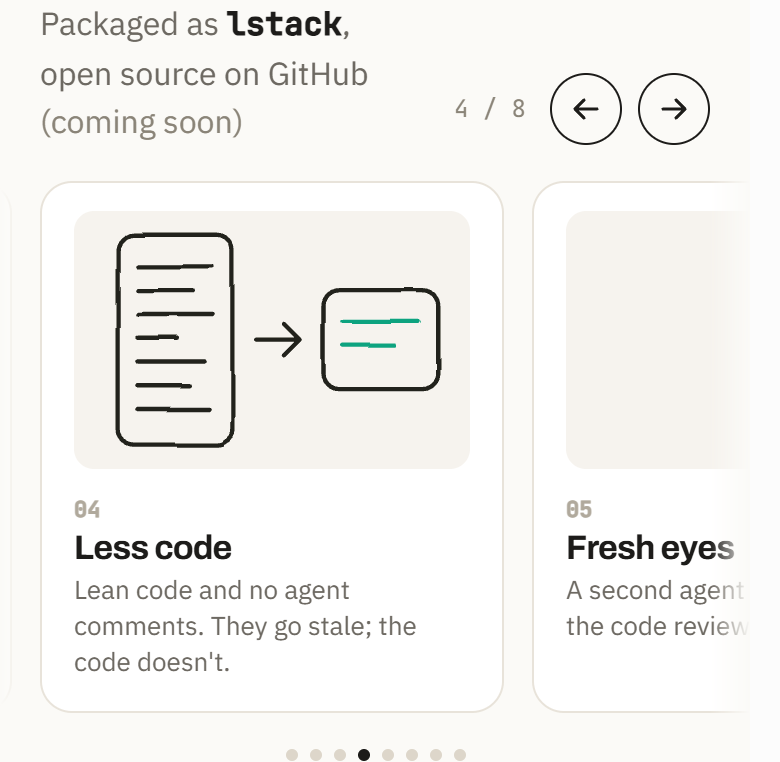
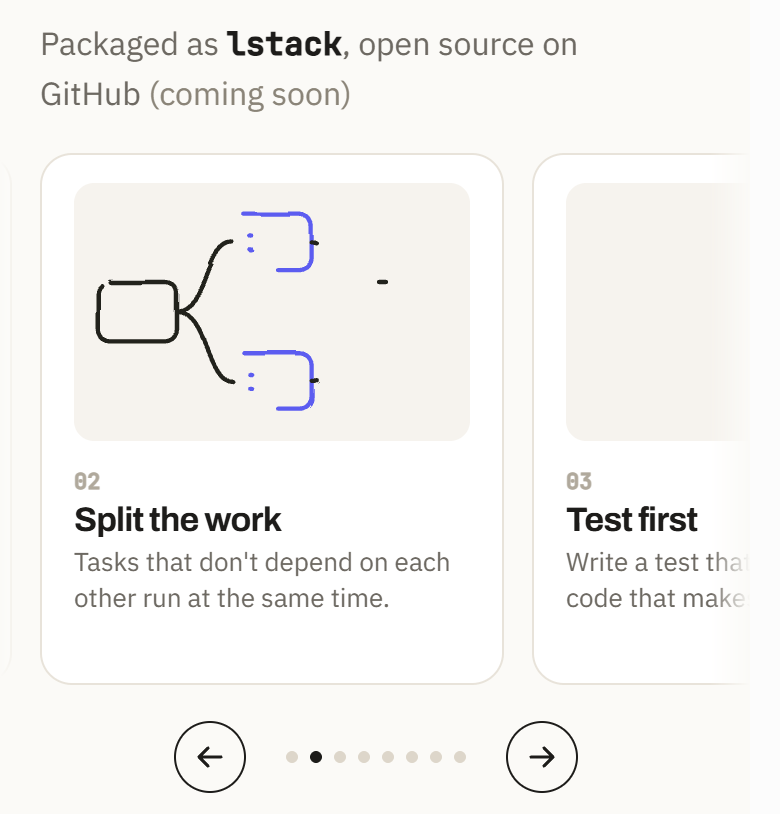
feat: on phones the lstack line runs full width and the arrows sit either side of the dots

diff --git a/components/site/AgentRules.tsx b/components/site/AgentRules.tsx
@@ -28,6 +28,20 @@ export default function AgentRules() {
   }, []);
 
   const go = (d: number) => row.current!.scrollBy({ left: d * step(row.current!), behavior: "smooth" });
+  // The arrows appear once per layout: beside the count on wider screens, around the dots on phones.
+  const arrow = (d: -1 | 1, show: string) => (
+    <button
+      type="button"
+      aria-label={d < 0 ? "Previous rule" : "Next rule"}
+      onClick={() => go(d)}
+      disabled={d < 0 ? first === 0 : last === RULES.length - 1}
+      className={`${show} size-9 place-items-center rounded-full border-[1.5px] border-[#1d1c1a] disabled:opacity-30`}
+    >
+      <ArrowIcon dir={d < 0 ? "left" : "right"} />
+    </button>
+  );
+  const prev = (show: string) => arrow(-1, show);
+  const next = (show: string) => arrow(1, show);
 
   return (
     <div className="mt-8" data-build="box" data-label="lstack rules">
@@ -37,15 +51,12 @@ export default function AgentRules() {
           <span className="text-[#8a8478]">(coming soon)</span>
         </p>
         <div className="flex shrink-0 items-center gap-2">
-          <span className="mono mr-1 text-xs text-[#8a8478]" aria-live="polite">
+          {/* Phones: the dots below show where you are, so the count is for screen readers only. */}
+          <span className="mono sr-only mr-1 text-xs text-[#8a8478] sm:not-sr-only" aria-live="polite">
             {first === last ? first + 1 : `${first + 1}–${last + 1}`} / {RULES.length}
           </span>
-          <button type="button" aria-label="Previous rule" onClick={() => go(-1)} disabled={first === 0} className="grid size-9 place-items-center rounded-full border-[1.5px] border-[#1d1c1a] disabled:opacity-30">
-            <ArrowIcon dir="left" />
-          </button>
-          <button type="button" aria-label="Next rule" onClick={() => go(1)} disabled={last === RULES.length - 1} className="grid size-9 place-items-center rounded-full border-[1.5px] border-[#1d1c1a] disabled:opacity-30">
-            <ArrowIcon dir="right" />
-          </button>
+          {prev("hidden sm:grid")}
+          {next("hidden sm:grid")}
         </div>
       </div>
 
@@ -62,10 +73,15 @@ export default function AgentRules() {
         ))}
       </div>
 
-      <div className="mt-3 flex justify-center gap-1.5" aria-hidden="true">
-        {RULES.map((r, i) => (
-          <i key={r.title} className={`size-1.5 rounded-full ${i >= first && i <= last ? "bg-[#1d1c1a]" : "bg-[#ddd6ca]"}`} />
-        ))}
+      {/* Phones: the arrows sit either side of the dots, under the cards. */}
+      <div className="mt-3 flex items-center justify-center gap-5">
+        {prev("grid sm:hidden")}
+        <div className="flex gap-1.5" aria-hidden="true">
+          {RULES.map((r, i) => (
+            <i key={r.title} className={`size-1.5 rounded-full ${i >= first && i <= last ? "bg-[#1d1c1a]" : "bg-[#ddd6ca]"}`} />
+          ))}
+        </div>
+        {next("grid sm:hidden")}
       </div>
 
       <svg width="0" height="0" className="absolute" aria-hidden="true">
